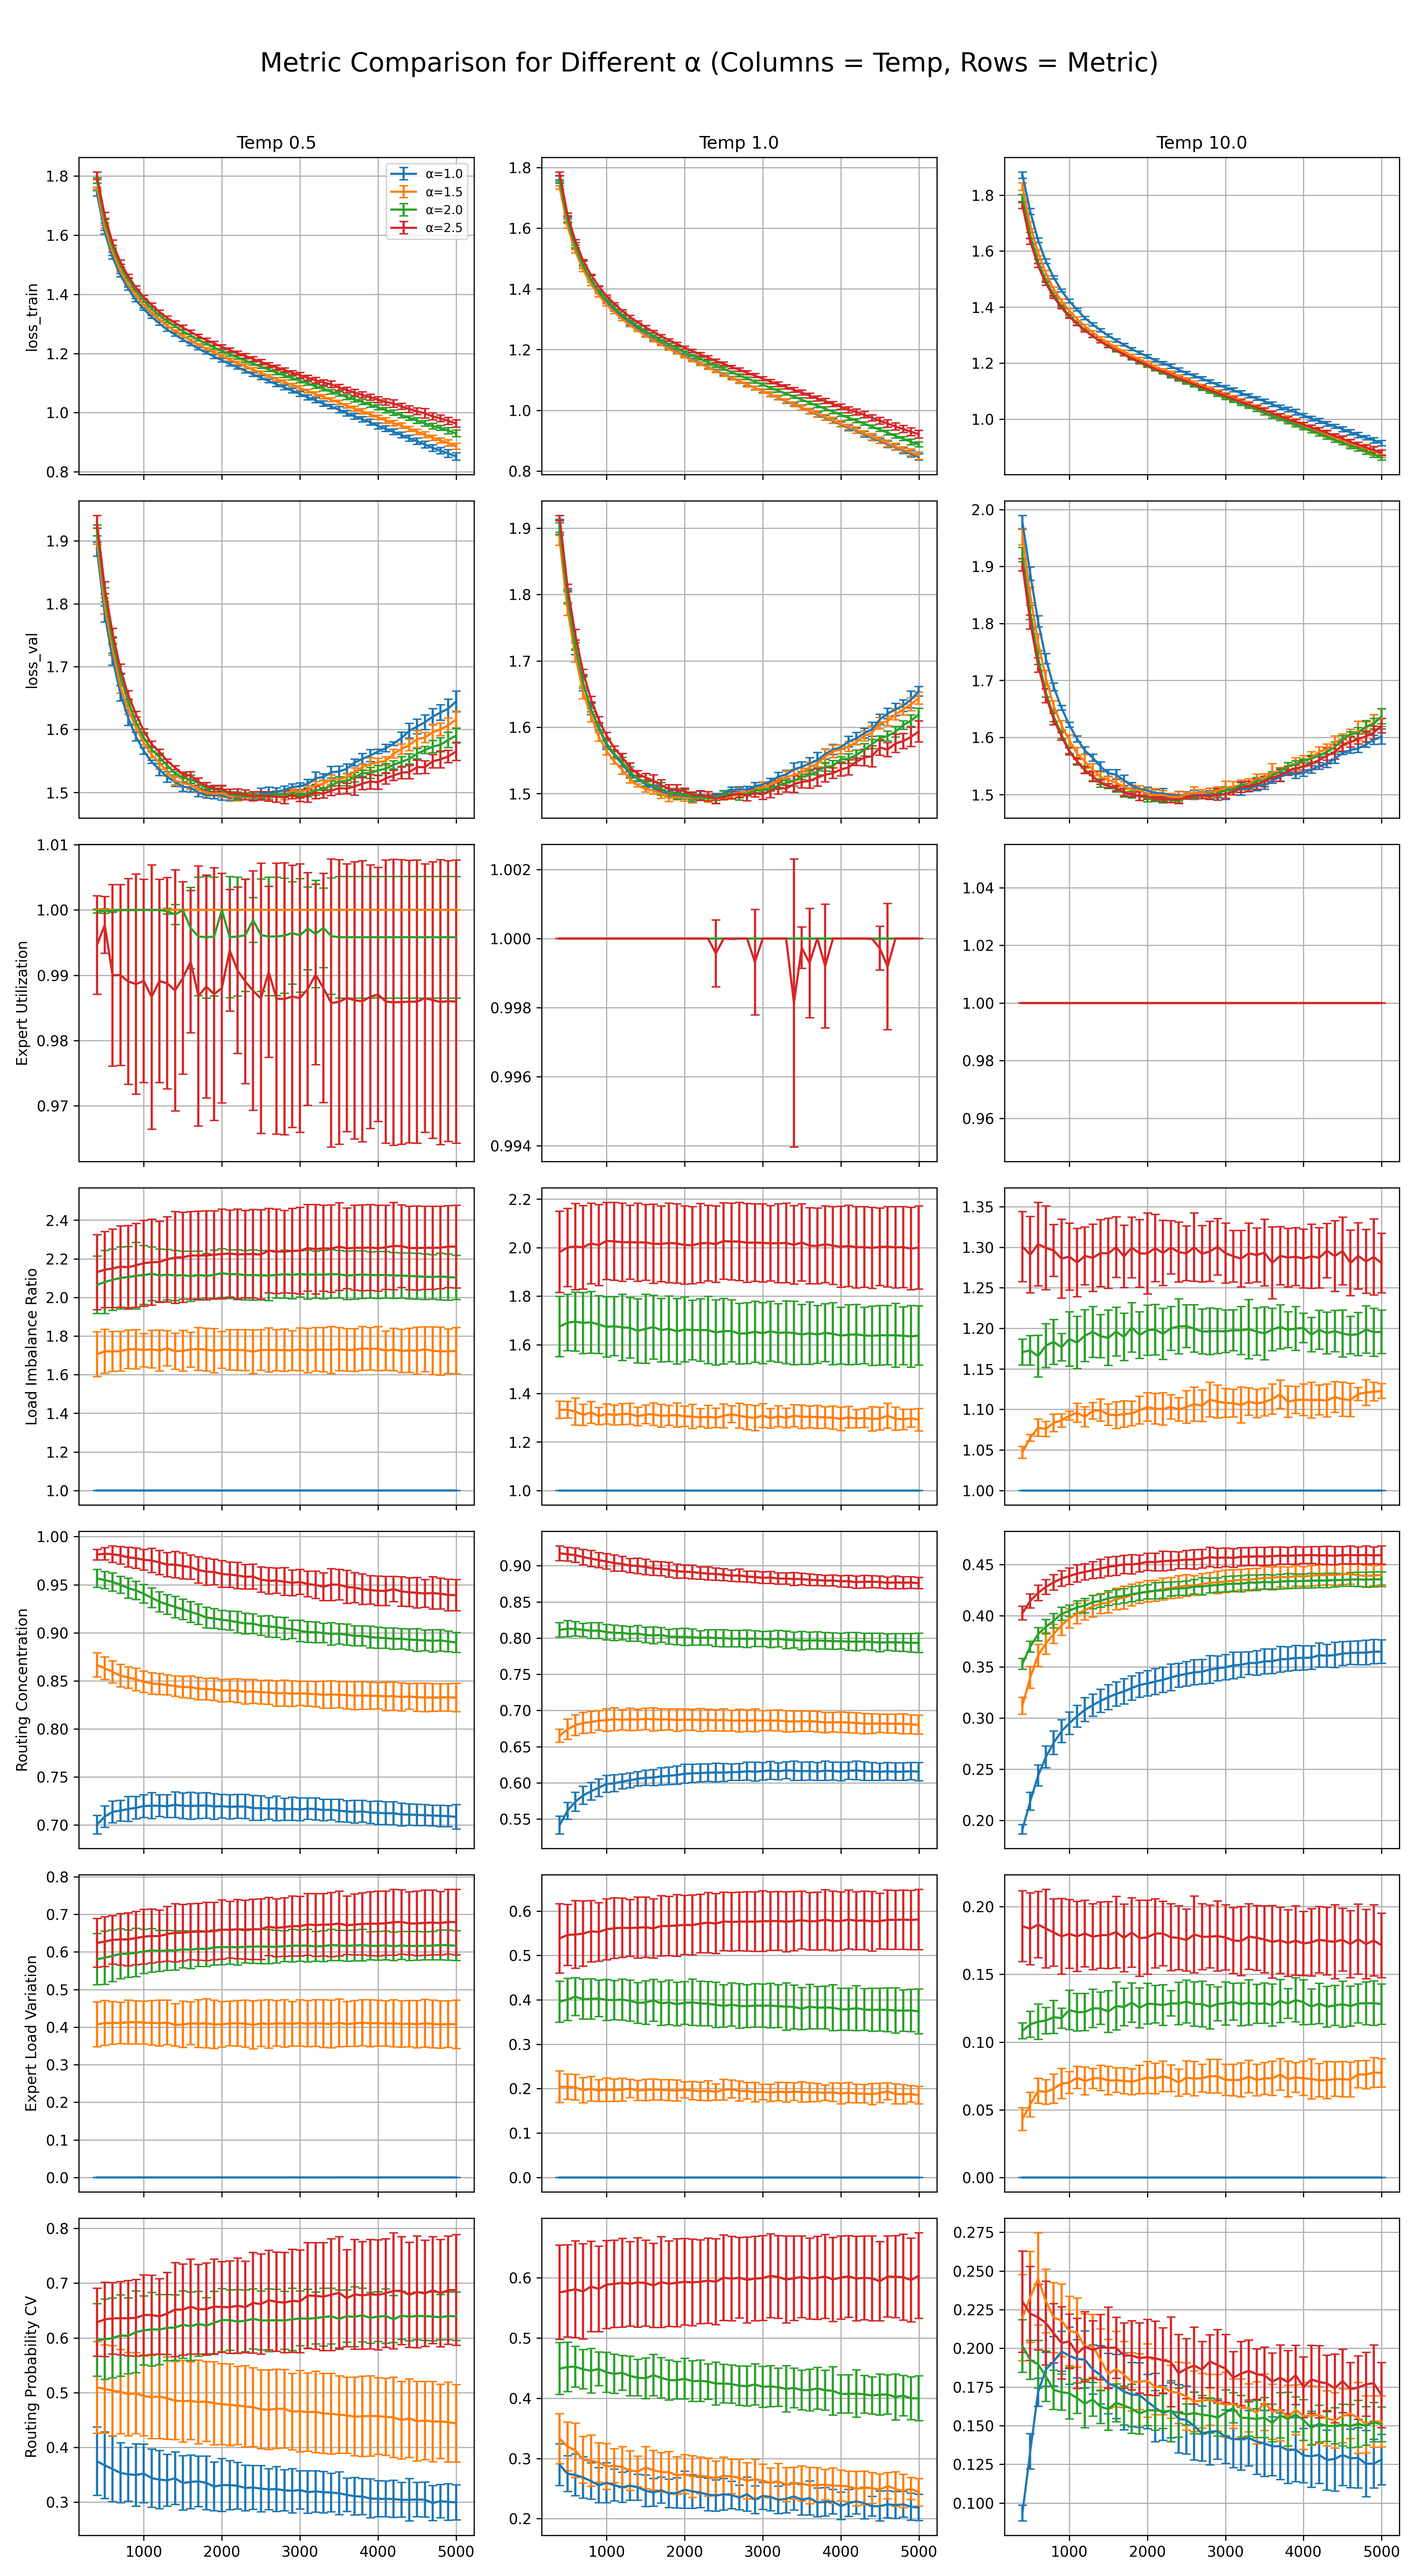
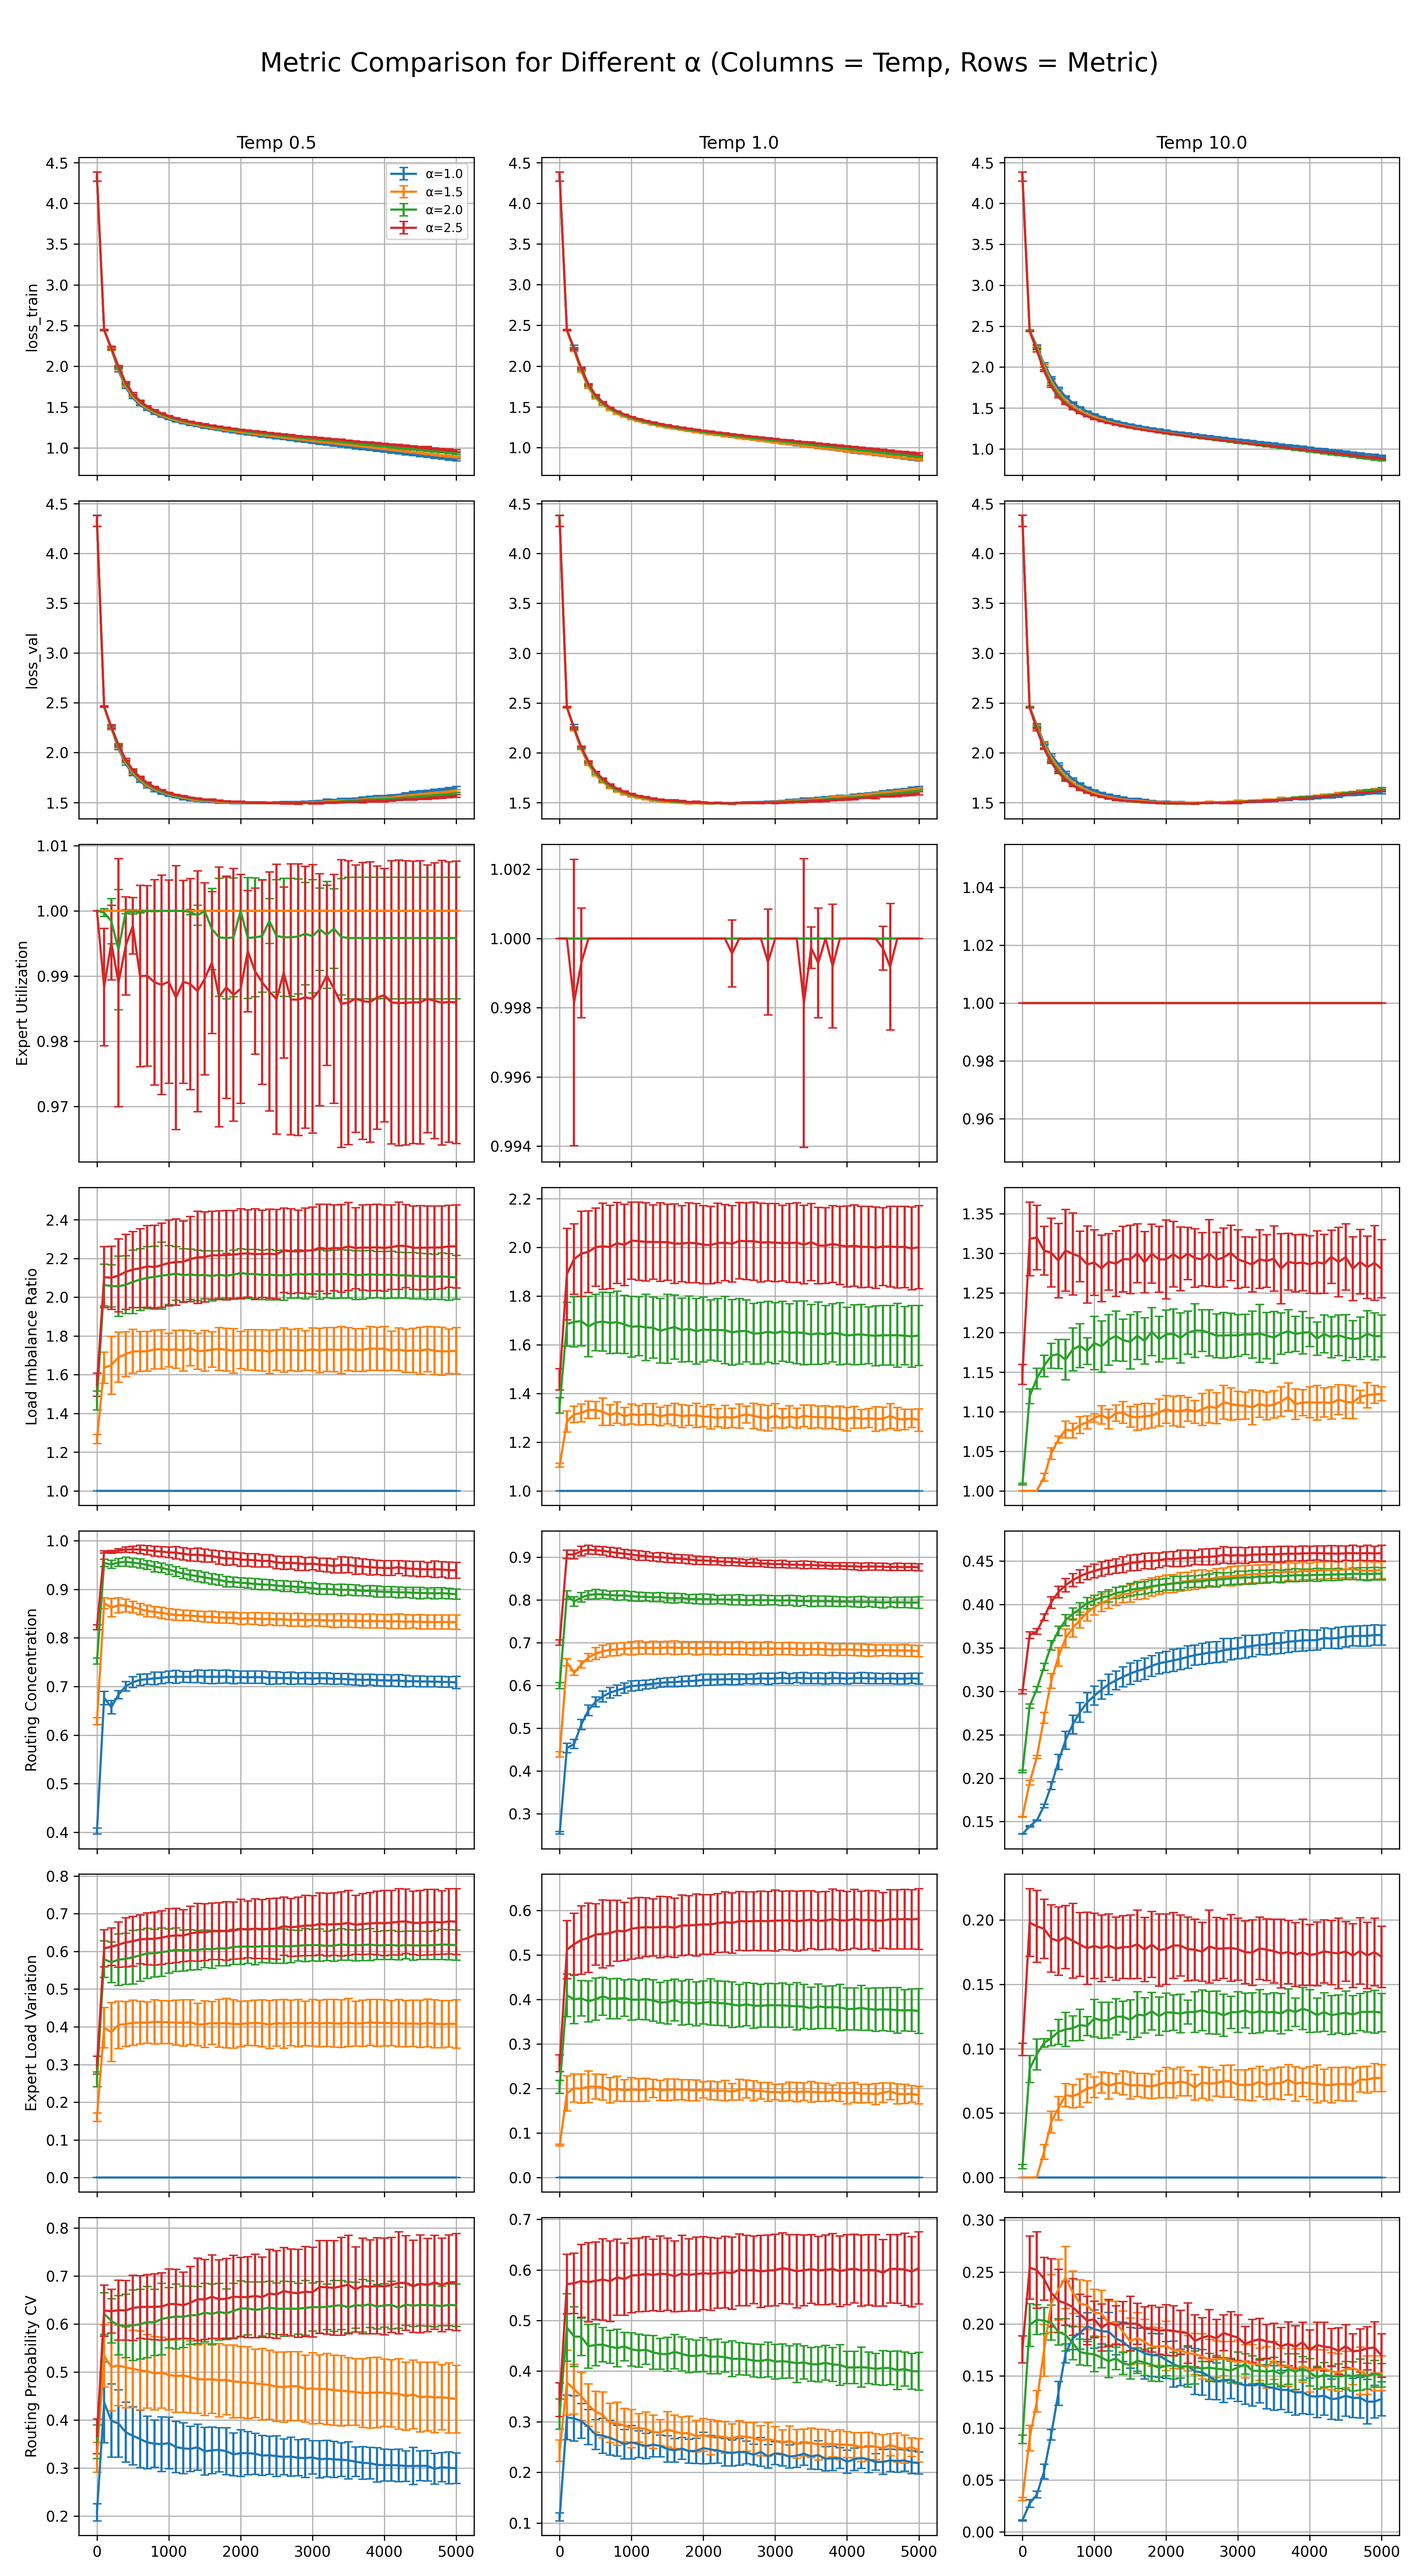
all results

diff --git a/single_alpha_analysis.py b/single_alpha_analysis.py
@@ -1,10 +1,10 @@
 import pandas as pd
 import matplotlib.pyplot as plt
 
-alphas = ['1_0', '1_5', '2_0', '2_5']
+alphas = ['0_5', '1_0', '1_5', '2_0', '2_5']
 for alpha in alphas:
     # Load data
-    df = pd.read_csv(f'./alpha_{alpha}.csv')
+    df = pd.read_csv(f'./results_csv/alpha_{alpha}.csv')
 
     # Metrics to plot
     metric_cols = ['loss_train', 'loss_val', 'Expert Utilization', 'Load Imbalance Ratio',

diff --git a/bar_plot_last_iter.py b/bar_plot_last_iter.py
@@ -7,6 +7,7 @@ colors = ['#4E79A7', '#F28E2B', '#E15759', '#76B7B2']
 
 # File mapping for each alpha
 alpha_files = {
+    '0.5': './results_csv/alpha_0_5.csv',
     '1.0': './results_csv/alpha_1_0.csv',
     '1.5': './results_csv/alpha_1_5.csv',
     '2.0': './results_csv/alpha_2_0.csv',

diff --git a/all_compare.py b/all_compare.py
@@ -2,6 +2,7 @@ import pandas as pd
 import matplotlib.pyplot as plt
 
 # Load CSVs
+df0 = pd.read_csv("results_csv/alpha_0_5.csv")
 df1 = pd.read_csv("results_csv/alpha_1_0.csv")
 df2 = pd.read_csv("results_csv/alpha_1_5.csv")
 df3 = pd.read_csv("results_csv/alpha_2_0.csv")

diff --git a/bar_plot.py b/bar_plot.py
@@ -4,6 +4,7 @@ import numpy as np
 
 # File mapping for each alpha
 alpha_files = {
+    '0.5': './results_csv/alpha_0_5.csv',
     '1.0': './results_csv/alpha_1_0.csv',
     '1.5': './results_csv/alpha_1_5.csv',
     '2.0': './results_csv/alpha_2_0.csv',
